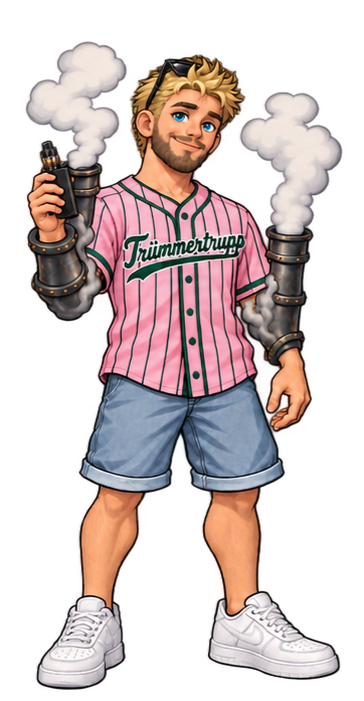
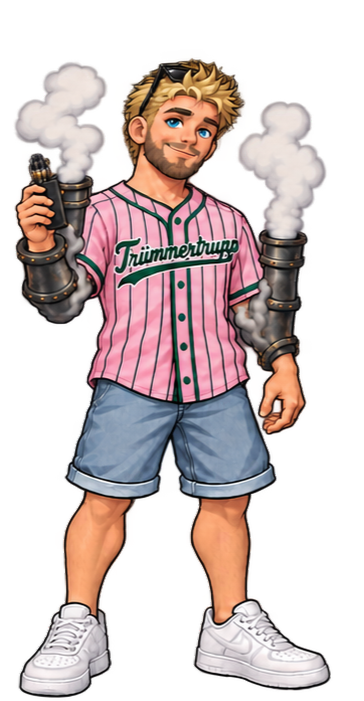
Dampfi Animationen Rework

diff --git a/src/config/characterSkins.js b/src/config/characterSkins.js
@@ -139,6 +139,18 @@ new URL(
 import.meta.url,
 ).href;
 
+const damppfiJerseySuccess05 =
+new URL(
+'../assets/characters/Dampflock/skins/jersey/freude/dampfi_jersey_freude5.png',
+import.meta.url,
+).href;
+
+const damppfiJerseySuccess06 =
+new URL(
+'../assets/characters/Dampflock/skins/jersey/freude/dampfi_jersey_freude6.png',
+import.meta.url,
+).href;
+
 const damppfiJerseyPortrait =
 new URL(
 '../assets/characters/Dampflock/skins/jersey/dampfi_jersey_portrait.png',
@@ -521,13 +533,17 @@ export const CHARACTER_SKINS =
                   Object.freeze([
                     damppfiJerseySuccess01,
                     damppfiJerseySuccess02,
-                    damppfiJerseySuccess03,
                     damppfiJerseySuccess04,
+                    damppfiJerseySuccess05,
+                    damppfiJerseySuccess06,
+                    damppfiJerseySuccess05,
+                    damppfiJerseySuccess06,
+                    damppfiJerseySuccess05,
                     damppfiJerseyIdle01
                   ]),
 
                 frameDurationMs:
-                  150,
+                  180,
             }
           })
       }),
